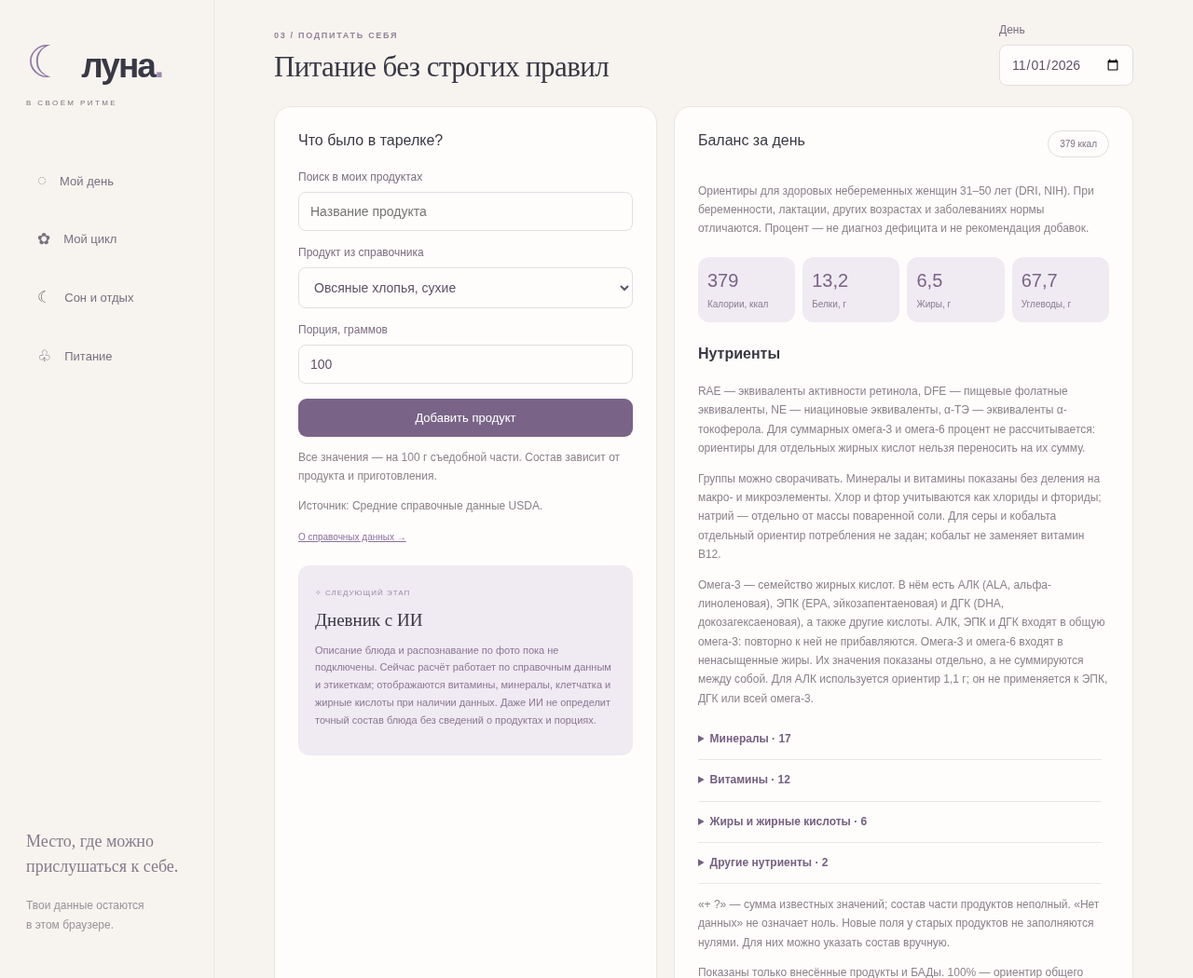
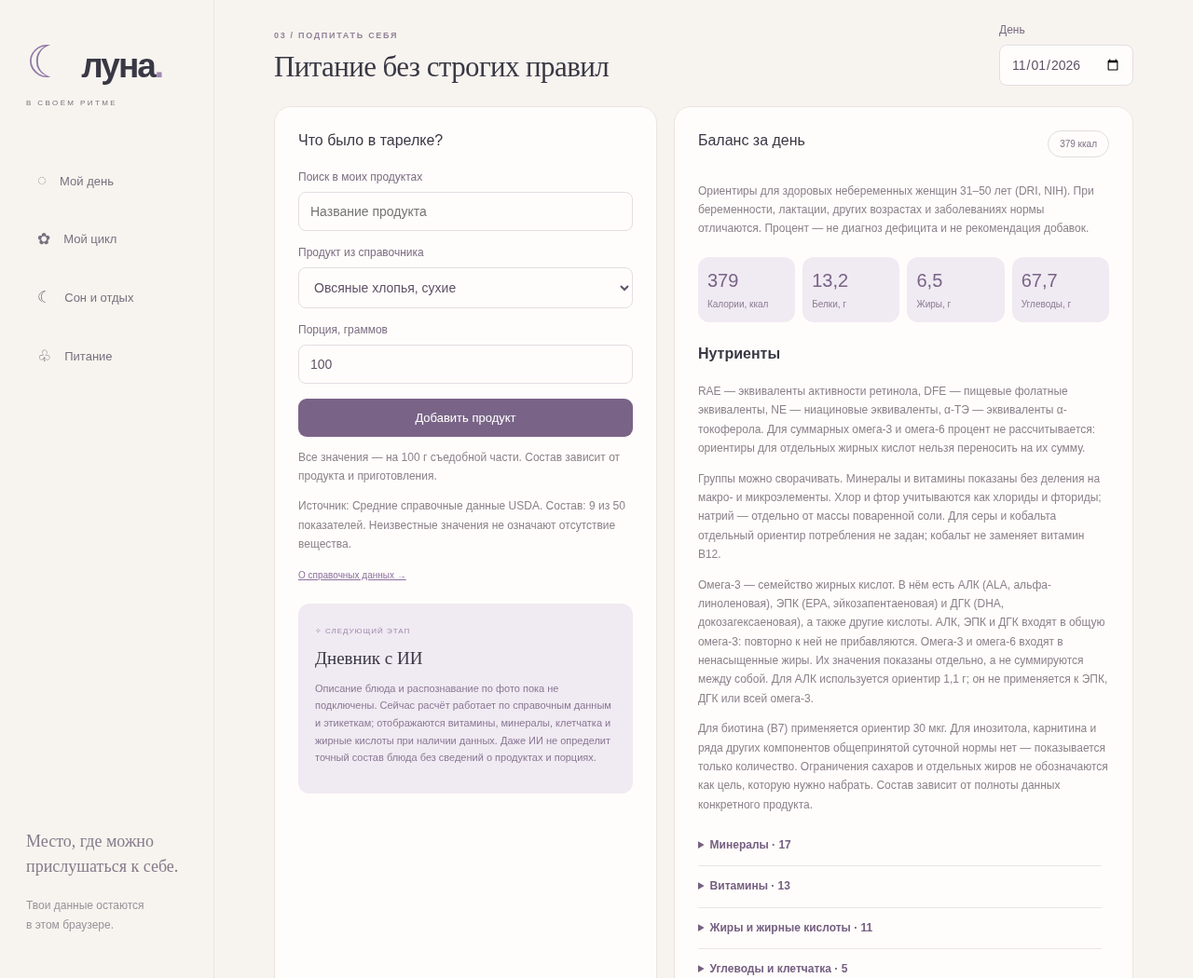
Add inositol and expand catalog-supported nutritional components

Changed region(s): [[0.5938, 0.7314, 0.9375, 1.0], [0.25, 0.5181, 0.5312, 0.7924], [0.8438, 0.9752, 0.9062, 1.0]]

diff --git a/app.js b/app.js
@@ -57,15 +57,34 @@ const nutrients=[
  ['b1','Витамин B1','мг',1.1],['b2','Витамин B2','мг',1.1],['b3','Витамин B3 (ниацин)','мг NE',14],['b5','Витамин B5','мг',5],['b6','Витамин B6','мг',1.3],
  ['iodine','Йод','мкг',150],['phosphorus','Фосфор','мг',700],['copper','Медь','мкг',900],['manganese','Марганец','мг',1.8],['selenium','Селен','мкг',55],['choline','Холин','мг',425],['omega3','Омега-3 (всего)','г',null],['omega6','Омега-6 (всего)','г',null],
  ['sodium','Натрий','мг',1500],['sulfur','Сера','мг',null],['chloride','Хлориды (хлор)','мг',2300],['fluoride','Фториды (фтор)','мг',3],['molybdenum','Молибден','мкг',45],['chromium','Хром','мкг',25],['cobalt','Кобальт','мкг',null],
- ['unsaturated','Ненасыщенные жиры (всего)','г',null],['ala','АЛК (ALA) · омега-3','г',1.1],['epa','ЭПК (EPA) · омега-3','мг',null],['dha','ДГК (DHA) · омега-3','мг',null]
+ ['unsaturated','Ненасыщенные жиры (всего)','г',null],['ala','АЛК (ALA) · омега-3','г',1.1],['epa','ЭПК (EPA) · омега-3','мг',null],['dha','ДГК (DHA) · омега-3','мг',null],
+ ['inositol','Инозитол','мг',null],['biotin','Витамин B7 (биотин)','мкг',30],['betaCarotene','Бета-каротин','мкг',null],['carnitine','Карнитин','мг',null],
+ ['sugars','Сахара (всего)','г',null],['addedSugars','Добавленные сахара','г',null],['starch','Крахмал','г',null],['polyols','Полиолы','г',null],
+ ['saturated','Насыщенные жиры','г',null],['monounsaturated','Мононенасыщенные жиры','г',null],['polyunsaturated','Полиненасыщенные жиры','г',null],['trans','Трансжиры','г',null],['cholesterol','Пищевой холестерин','мг',null]
 ];
 // One shared taxonomy for the daily balance, product editor and supplement picker.
 const nutrientGroups=[
  {id:'minerals',name:'Минералы',keys:['potassium','calcium','magnesium','sodium','phosphorus','sulfur','chloride','iron','zinc','iodine','copper','manganese','selenium','molybdenum','chromium','cobalt','fluoride']},
- {id:'vitamins',name:'Витамины',keys:['a','d','e','k','c','b1','b2','b3','b5','b6','folate','b12']},
- {id:'fatty-acids',name:'Жиры и жирные кислоты',keys:['unsaturated','omega3','ala','epa','dha','omega6']},
- {id:'other-nutrients',name:'Другие нутриенты',keys:['fiber','choline']}
+ {id:'vitamins',name:'Витамины',keys:['a','d','e','k','c','b1','b2','b3','b5','b6','folate','b12','biotin']},
+ {id:'fatty-acids',name:'Жиры и жирные кислоты',keys:['saturated','unsaturated','monounsaturated','polyunsaturated','omega3','ala','epa','dha','omega6','trans','cholesterol']},
+ {id:'carbohydrate-components',name:'Углеводы и клетчатка',keys:['sugars','addedSugars','starch','polyols','fiber']},
+ {id:'other-nutrients',name:'Другие нутриенты',keys:['choline','inositol','carnitine','betaCarotene']}
 ];
+const nutrientNotes={
+ inositol:'Общепринятая суточная норма не установлена. Инозитол не считается признанным витамином B8.',
+ biotin:'Ориентир AI для взрослых — 30 мкг в сутки. Это не назначение дозы добавки.',
+ betaCarotene:'Предшественник витамина A. Не прибавляется автоматически к уже указанному витамину A в RAE.',
+ sugars:'Общие сахара уже включают добавленные; оба показателя — часть углеводов, не прибавляются к ним повторно.',
+ addedSugars:'Количество учитывается отдельно. Рекомендуемые ограничения зависят от калорийности и не являются целью, которую нужно набрать.',
+ starch:'Компонент углеводов, не прибавляется повторно к углеводам КБЖУ.',
+ polyols:'Сахарные спирты. В разных системах маркировки могут входить в углеводы; КБЖУ не пересчитываются автоматически.',
+ saturated:'Ограничения выражают относительно калорийности. Фиксированная цель в граммах не назначена.',
+ monounsaturated:'Входят в ненасыщенные жиры. Не прибавляются повторно к общей массе жиров.',
+ polyunsaturated:'Включают омега-3 и омега-6. Вложенные показатели не складываются повторно.',
+ trans:'Для трансжиров не задаётся цель потребления, которую нужно набрать.',
+ cholesterol:'Это холестерин в пище, а не показатель холестерина в крови. Цель потребления не назначена.',
+ carnitine:'Общепринятая суточная норма для здоровых взрослых не установлена.'
+};
 const nutrientByKey=new Map(nutrients.map(n=>[n[0],n]));
 const products=[
  {id:'oats',name:'Овсяные хлопья, сухие',kcal:379,iron:4.25,calcium:52,magnesium:138,potassium:362,zinc:3.64,c:0,b12:0,folate:32},
@@ -98,7 +117,7 @@ function renderFood(){renderProductSelect();const date=$('#food-date').value;con
  const macros=$('#macros');macros.replaceChildren();for(const key of macroKeys){const card=document.createElement('div');card.className='macro';card.append(textEl('strong',amountText(key,totals,unknown)),textEl('span',macroLabels[key]));macros.append(card);}
  renderNutrients(entries,totals,unknown,date);
  const history=$('#food-history');history.replaceChildren();if(!entries.length)history.append(textEl('p','Добавь первый продукт — здесь появятся записи за выбранный день.','empty'));for(const m of entries){const p=mealProduct(m);const r=textEl('div',`${p?p.name:'Продукт'} · ${m.grams} г`,'record');r.append(removeButton(`Удалить продукт ${m.id}`,()=>{state.meals=state.meals.filter(v=>v.id!==m.id);save();}));history.append(r);}renderCustomProducts();renderWater();renderSupplements();}
-function renderSelectedSource(){const p=allProducts().find(p=>p.id===$('#food-product').value);$('#selected-product-source').textContent=p?`Источник: ${p.source}.`:'';}
+function renderSelectedSource(){const p=allProducts().find(p=>p.id===$('#food-product').value);$('#selected-product-source').textContent=p?`Источник: ${p.source}. Состав: ${nutrients.filter(([key])=>isKnown(p[key])).length} из ${nutrients.length} показателей. Неизвестные значения не означают отсутствие вещества.`:'';}
 $('#food-product').onchange=renderSelectedSource;
 $('#local-product-search').oninput=renderProductSelect;
 $('#food-date').onchange=renderFood;$('#food-form').onsubmit=e=>{e.preventDefault();const grams=Number($('#food-grams').value),date=$('#food-date').value,p=allProducts().find(p=>p.id===$('#food-product').value);if(!p||!date||!Number.isFinite(grams)||grams<1||grams>3000)return;state.meals.push({id:crypto.randomUUID(),date,product:p.id,grams,snapshot:structuredClone(p)});save();};
@@ -108,7 +127,7 @@ $('#product-cancel').onclick=resetProductForm;
 function renderCustomProducts(){const list=$('#custom-products');list.replaceChildren();for(const p of state.products){const row=textEl('div',p.name,'record');const edit=textEl('button','Изменить','edit-product');edit.type='button';edit.setAttribute('aria-label',`Изменить ${p.name}`);edit.onclick=()=>{$('#product-id').value=p.id;$('#product-name').value=p.name;for(const key of [...macroKeys,...nutrients.map(n=>n[0])])$('#product-'+key).value=isKnown(p[key])?p[key]:'';$('#product-save').textContent='Сохранить изменения';$('#product-cancel').hidden=false;$('#product-name').focus();};row.append(edit,removeButton(`Удалить из базы ${p.name}`,()=>{state.products=state.products.filter(v=>v.id!==p.id);if($('#product-id').value===p.id)resetProductForm();save();}));list.append(row);}}
 $('#product-form').onsubmit=e=>{e.preventDefault();const name=$('#product-name').value.trim();if(!name)return;const id=$('#product-id').value||'custom-'+crypto.randomUUID();const old=state.products.find(p=>p.id===id);const product={id,name,source:old?.source||'Собственные данные на 100 г'};for(const key of [...macroKeys,...nutrients.map(n=>n[0])]){const value=$('#product-'+key).value;product[key]=value===''?null:Number(value);if(product[key]!==null&&!isKnown(product[key]))return;}if(macroKeys.some(k=>!isKnown(product[k])))return;if(product.protein+product.fat+product.carbs>101){$('#product-message').textContent='Проверь состав: сумма белков, жиров и углеводов превышает 100 г на 100 г продукта.';return;}state.products=state.products.filter(p=>p.id!==id);state.products.push(product);resetProductForm();$('#local-product-search').value='';save();$('#food-product').value=id;renderSelectedSource();$('#product-message').textContent=`«${name}» сохранён. Теперь выбери порцию и добавь в дневник.`;};
 const offNumber=(nutriments,key,factor=1)=>{const value=nutriments[key];return typeof value==='number'&&Number.isFinite(value)&&value>=0?value*factor:null;};
-function fromOFF(p){const n=p.nutriments||{};return {id:'off-'+p.code,name:[p.product_name||p.product_name_en||'Продукт '+p.code,p.brands].filter(Boolean).join(' · '),source:'Open Food Facts · '+p.code,kcal:offNumber(n,'energy-kcal_100g')??(offNumber(n,'energy_100g')===null?null:offNumber(n,'energy_100g')/4.184),protein:offNumber(n,'proteins_100g'),fat:offNumber(n,'fat_100g'),carbs:offNumber(n,'carbohydrates_100g'),iron:offNumber(n,'iron_100g',1000),calcium:offNumber(n,'calcium_100g',1000),magnesium:offNumber(n,'magnesium_100g',1000),potassium:offNumber(n,'potassium_100g',1000),zinc:offNumber(n,'zinc_100g',1000),c:offNumber(n,'vitamin-c_100g',1000),b12:offNumber(n,'vitamin-b12_100g',1e6),folate:null, fiber:offNumber(n,'fiber_100g'),a:null,e:null,b3:null,d:offNumber(n,'vitamin-d_100g',1e6),k:offNumber(n,'vitamin-k_100g',1e6),b1:offNumber(n,'vitamin-b1_100g',1000),b2:offNumber(n,'vitamin-b2_100g',1000),b5:offNumber(n,'pantothenic-acid_100g',1000),b6:offNumber(n,'vitamin-b6_100g',1000),iodine:offNumber(n,'iodine_100g',1e6),phosphorus:offNumber(n,'phosphorus_100g',1000),copper:offNumber(n,'copper_100g',1e6),manganese:offNumber(n,'manganese_100g',1000),selenium:offNumber(n,'selenium_100g',1e6),choline:offNumber(n,'choline_100g',1000),omega3:offNumber(n,'omega-3-fat_100g'),omega6:offNumber(n,'omega-6-fat_100g'),sodium:offNumber(n,'sodium_100g',1000),sulfur:offNumber(n,'sulfur_100g',1000),chloride:offNumber(n,'chloride_100g',1000),fluoride:offNumber(n,'fluoride_100g',1000),molybdenum:offNumber(n,'molybdenum_100g',1e6),chromium:offNumber(n,'chromium_100g',1e6),cobalt:offNumber(n,'cobalt_100g',1e6),unsaturated:offNumber(n,'unsaturated-fat_100g')??(offNumber(n,'monounsaturated-fat_100g')!==null&&offNumber(n,'polyunsaturated-fat_100g')!==null?offNumber(n,'monounsaturated-fat_100g')+offNumber(n,'polyunsaturated-fat_100g'):null),ala:offNumber(n,'alpha-linolenic-acid_100g'),epa:offNumber(n,'eicosapentaenoic-acid_100g',1000),dha:offNumber(n,'docosahexaenoic-acid_100g',1000)};}
+function fromOFF(p){const n=p.nutriments||{};return {id:'off-'+p.code,name:[p.product_name||p.product_name_en||'Продукт '+p.code,p.brands].filter(Boolean).join(' · '),source:'Open Food Facts · '+p.code,kcal:offNumber(n,'energy-kcal_100g')??(offNumber(n,'energy_100g')===null?null:offNumber(n,'energy_100g')/4.184),protein:offNumber(n,'proteins_100g'),fat:offNumber(n,'fat_100g'),carbs:offNumber(n,'carbohydrates_100g'),iron:offNumber(n,'iron_100g',1000),calcium:offNumber(n,'calcium_100g',1000),magnesium:offNumber(n,'magnesium_100g',1000),potassium:offNumber(n,'potassium_100g',1000),zinc:offNumber(n,'zinc_100g',1000),c:offNumber(n,'vitamin-c_100g',1000),b12:offNumber(n,'vitamin-b12_100g',1e6),folate:null, fiber:offNumber(n,'fiber_100g'),a:null,e:null,b3:null,d:offNumber(n,'vitamin-d_100g',1e6),k:offNumber(n,'vitamin-k_100g',1e6),b1:offNumber(n,'vitamin-b1_100g',1000),b2:offNumber(n,'vitamin-b2_100g',1000),b5:offNumber(n,'pantothenic-acid_100g',1000),b6:offNumber(n,'vitamin-b6_100g',1000),iodine:offNumber(n,'iodine_100g',1e6),phosphorus:offNumber(n,'phosphorus_100g',1000),copper:offNumber(n,'copper_100g',1e6),manganese:offNumber(n,'manganese_100g',1000),selenium:offNumber(n,'selenium_100g',1e6),choline:offNumber(n,'choline_100g',1000),omega3:offNumber(n,'omega-3-fat_100g'),omega6:offNumber(n,'omega-6-fat_100g'),sodium:offNumber(n,'sodium_100g',1000),sulfur:offNumber(n,'sulfur_100g',1000),chloride:offNumber(n,'chloride_100g',1000),fluoride:offNumber(n,'fluoride_100g',1000),molybdenum:offNumber(n,'molybdenum_100g',1e6),chromium:offNumber(n,'chromium_100g',1e6),cobalt:offNumber(n,'cobalt_100g',1e6),unsaturated:offNumber(n,'unsaturated-fat_100g')??(offNumber(n,'monounsaturated-fat_100g')!==null&&offNumber(n,'polyunsaturated-fat_100g')!==null?offNumber(n,'monounsaturated-fat_100g')+offNumber(n,'polyunsaturated-fat_100g'):null),ala:offNumber(n,'alpha-linolenic-acid_100g'),epa:offNumber(n,'eicosapentaenoic-acid_100g',1000),dha:offNumber(n,'docosahexaenoic-acid_100g',1000),inositol:offNumber(n,'inositol_100g',1000),biotin:offNumber(n,'biotin_100g',1e6),betaCarotene:offNumber(n,'beta-carotene_100g',1e6),carnitine:offNumber(n,'carnitine_100g',1000),sugars:offNumber(n,'sugars_100g'),addedSugars:offNumber(n,'added-sugars_100g'),starch:offNumber(n,'starch_100g'),polyols:offNumber(n,'polyols_100g'),saturated:offNumber(n,'saturated-fat_100g'),monounsaturated:offNumber(n,'monounsaturated-fat_100g'),polyunsaturated:offNumber(n,'polyunsaturated-fat_100g'),trans:offNumber(n,'trans-fat_100g'),cholesterol:offNumber(n,'cholesterol_100g',1000)};}
 // OFF folates may not specify DFE, so do not equate them to DFE-based targets.
 let lastCatalogRequest=0;
 $('#catalog-form').onsubmit=async e=>{e.preventDefault();const query=$('#catalog-query').value.trim();if(query.length<2)return;if(!navigator.onLine){$('#catalog-status').textContent='Сейчас нет интернета. Свои и уже сохранённые продукты доступны выше.';return;}if(Date.now()-lastCatalogRequest<6500){$('#catalog-status').textContent='Подожди несколько секунд перед новым поиском.';return;}lastCatalogRequest=Date.now();const status=$('#catalog-status'),results=$('#catalog-results');results.replaceChildren();status.textContent='Ищем в Open Food Facts…';$('#catalog-submit').disabled=true;const controller=new AbortController();const timeout=setTimeout(()=>controller.abort(),15000);try{const fields='code,product_name,product_name_en,brands,nutriments';const url=/^\d{8,14}$/.test(query)?`https://world.openfoodfacts.org/api/v2/product/${encodeURIComponent(query)}.json?fields=${fields}`:`https://world.openfoodfacts.org/cgi/search.pl?search_terms=${encodeURIComponent(query)}&search_simple=1&action=process&json=1&page_size=10&fields=${fields}`;const response=await fetch(url,{signal:controller.signal,credentials:'omit',referrerPolicy:'no-referrer'});if(!response.ok)throw new Error('HTTP '+response.status);const data=await response.json();const found=(data.products||(data.status===1&&data.product?[data.product]:[])).filter(p=>p&&p.code);status.textContent=found.length?`Найдено: ${found.length}. Проверь данные и сохрани нужный продукт.`:'Ничего не найдено. Попробуй другое название или внеси продукт с упаковки.';for(const item of found){const product=fromOFF(item);const card=document.createElement('div');card.className='catalog-item';card.append(textEl('h4',product.name),textEl('small',`Штрихкод: ${item.code}`));card.append(textEl('p',macroKeys.map(k=>`${macroLabels[k]}: ${isKnown(product[k])?numeric(product[k]):'нет данных'}`).join(' · ')));const button=textEl('button','Сохранить в мою базу');button.type='button';button.onclick=()=>{if(state.products.some(p=>p.id===product.id)){status.textContent='Этот продукт уже есть в твоей базе.';return;}state.products.push(product);$('#local-product-search').value='';save();$('#food-product').value=product.id;renderSelectedSource();button.disabled=true;button.textContent='Сохранён';status.textContent='Продукт сохранён. Теперь можно добавить порцию в дневник.';};card.append(button);results.append(card);}}catch(error){status.textContent=error.name==='AbortError'?'Поиск занял слишком много времени. Попробуй позже или внеси продукт вручную.':'Каталог сейчас недоступен. Проверь интернет или добавь продукт вручную.';}finally{clearTimeout(timeout);$('#catalog-submit').disabled=false;}};
@@ -128,7 +147,7 @@ function renderNutrients(entries,foodTotals,unknown,date){const supplements=dail
  const row=document.createElement('div');row.className='nutrient';row.dataset.nutrient=key;if(['ala','epa','dha'].includes(key))row.classList.add('nutrient-subtype');const label=document.createElement('div');label.className='nutrient-label';label.append(textEl('span',name),textEl('small',value));row.append(label);
  if(norm!==null){const track=document.createElement('div');track.className='track';track.setAttribute('role','meter');track.setAttribute('aria-label',`${name}: ${value}`);track.setAttribute('aria-valuemin','0');track.setAttribute('aria-valuemax','100');track.setAttribute('aria-valuenow',String(Math.min(percent,100)));track.setAttribute('aria-valuetext',value);const fill=document.createElement('div');fill.className='fill';fill.style.width=`${Math.min(percent,100)}%`;track.append(fill);row.append(track);}
  const foodValue=entries.length&&foodMissing===entries.length?'нет данных':`${numeric(foodTotals[key])} ${unit}${foodMissing?' + ?':''}`;
- row.append(textEl('div',`Еда: ${foodValue} · БАДы: ${numeric(supplements.totals[key])} ${unit}${notConverted?` · без пересчёта: ${notConverted}`:''}`,'nutrient-source'));const group=nutrientGroups.find(g=>g.keys.includes(key));groupBodies.get(group.id).append(row);
+ row.append(textEl('div',`Еда: ${foodValue} · БАДы: ${numeric(supplements.totals[key])} ${unit}${notConverted?` · без пересчёта: ${notConverted}`:''}`,'nutrient-source'));if(nutrientNotes[key])row.append(textEl('div',nutrientNotes[key],'nutrient-note'));const group=nutrientGroups.find(g=>g.keys.includes(key));groupBodies.get(group.id).append(row);
  }
  for(const group of nutrientGroups){const body=groupBodies.get(group.id);for(const key of group.keys)body.append(body.querySelector(`[data-nutrient="${key}"]`));}container.scrollTop=scroll;
  const hasMissingFood=Object.values(unknown).some(n=>n>0);const unconvertedCount=Object.values(supplements.unconverted).reduce((a,b)=>a+b,0);

diff --git a/index.html b/index.html
@@ -6,7 +6,7 @@
 <section id="cycle" class="section"><div class="section-title"><div><span class="eyebrow">01 / ПРИСЛУШАТЬСЯ К ТЕЛУ</span><h2>Мой цикл</h2></div><span class="pill">Каждый цикл индивидуален</span></div><div class="cycle-grid"><article class="card"><div class="calendar-title"><button id="prev-month" aria-label="Предыдущий месяц" class="icon-button">←</button><h3 id="month-title"></h3><button id="next-month" aria-label="Следующий месяц" class="icon-button">→</button></div><div class="weekdays" aria-hidden="true"><span>ПН</span><span>ВТ</span><span>СР</span><span>ЧТ</span><span>ПТ</span><span>СБ</span><span>ВС</span></div><div id="calendar" class="calendar" aria-label="Календарь цикла"></div><div class="legend"><span><i class="menstrual"></i>Менструация</span><span><i class="follicular"></i>Фолликулярная</span><span><i class="ovulation"></i>Овуляция ≈</span><span><i class="luteal"></i>Лютеиновая</span></div><p class="fine">Цвета — расчётная схема, а не подтверждение фаз. Менструация биологически входит в фолликулярную фазу.</p></article><article class="card phase-card"><span class="eyebrow" id="selected-date"></span><h3 id="phase-title">У каждого тела свой ритм</h3><p id="phase-description">Добавь дату начала менструации. Здесь появятся примерный день цикла и мягкие подсказки.</p><div id="phase-tips"></div><div class="callout">Прогноз по датам не подтверждает овуляцию и не подходит для контрацепции. При нерегулярном цикле, беременности и гормональной контрацепции он может быть неприменим.</div></article></div>
 <article class="card settings"><form id="cycle-form"><label>Начало менструации<input id="period-start" type="date" required></label><label>Обычная длина цикла, дней<input id="cycle-length" type="number" min="21" max="45" value="28" required></label><label>Менструация, дней<input id="period-length" type="number" min="1" max="10" value="5" required></label><button type="submit">Отметить начало</button></form><p class="fine">Настройки прогноза: цикл 21–45 дней, менструация до 10 дней. Это диапазон модели, а не оценка здоровья. При сильной боли или необычно обильном кровотечении обратись за медицинской помощью.</p><div id="period-history" class="history"></div></article></section>
 <section id="sleep" class="section"><div class="section-title"><div><span class="eyebrow">02 / ВОССТАНОВИТЬ СИЛЫ</span><h2>Сон и отдых</h2></div><label class="inline-label">Период<select id="sleep-range"><option value="7">7 дней</option><option value="30">30 дней</option><option value="365">365 дней</option></select></label></div><div class="sleep-grid"><article class="card"><h3>Как ты отдохнула?</h3><form id="sleep-form" class="stack"><label>Тип сна<select id="sleep-type"><option value="night">Ночной сон</option><option value="nap">Дневной сон</option></select></label><div class="form-pair"><label>Уснула<input id="sleep-start" type="datetime-local" required></label><label>Проснулась<input id="sleep-end" type="datetime-local" required></label></div><button type="submit">Сохранить сон</button></form><p id="sleep-error" class="error" role="alert"></p><p class="fine">Указывай обе даты, если сон пересекает полночь. Пересекающиеся записи не суммируются.</p></article><article class="card"><span class="eyebrow">СРЕДНЯЯ ПРОДОЛЖИТЕЛЬНОСТЬ</span><div id="sleep-average" class="big-number">—</div><p id="sleep-average-note" class="muted"></p><div id="sleep-chart" class="sleep-chart" aria-label="Длительность сна по дням"></div><p class="fine">Суммируем ночной и дневной сон по дате пробуждения. Среднее — по дням с записями; дни без данных не считаются нулевыми. На графике последние 14 дней выбранного периода.</p></article></div><div id="sleep-history" class="history card"></div></section>
-<section id="food" class="section"><div class="section-title"><div><span class="eyebrow">03 / ПОДПИТАТЬ СЕБЯ</span><h2>Питание без строгих правил</h2></div><label class="inline-label">День<input type="date" id="food-date" required></label></div><div class="food-grid"><article class="card"><h3>Что было в тарелке?</h3><form id="food-form" class="stack"><label>Поиск в моих продуктах<input id="local-product-search" type="search" placeholder="Название продукта"></label><label>Продукт из справочника<select id="food-product"></select></label><label>Порция, граммов<input id="food-grams" type="number" min="1" max="3000" step="1" value="100" required></label><button type="submit">Добавить продукт</button></form><p class="fine">Все значения — на 100 г съедобной части. Состав зависит от продукта и приготовления.</p><p id="selected-product-source" class="fine"></p><a class="text-link" href="https://fdc.nal.usda.gov/" target="_blank" rel="noopener">О справочных данных →</a><div class="ai-note"><span>✧ СЛЕДУЮЩИЙ ЭТАП</span><h4>Дневник с ИИ</h4><p>Описание блюда и распознавание по фото пока не подключены. Сейчас расчёт работает по справочным данным и этикеткам; отображаются витамины, минералы, клетчатка и жирные кислоты при наличии данных. Даже ИИ не определит точный состав блюда без сведений о продуктах и порциях.</p></div></article><article class="card"><div class="nutrient-heading"><h3>Баланс за день</h3><span id="food-calories" class="pill">0 ккал</span></div><p class="fine">Ориентиры для здоровых небеременных женщин 31–50 лет (DRI, NIH). При беременности, лактации, других возрастах и заболеваниях нормы отличаются. Процент — не диагноз дефицита и не рекомендация добавок.</p><div id="macros" class="macros" aria-label="КБЖУ за день"></div><h4>Нутриенты</h4><p class="fine">RAE — эквиваленты активности ретинола, DFE — пищевые фолатные эквиваленты, NE — ниациновые эквиваленты, α-ТЭ — эквиваленты α-токоферола. Для суммарных омега-3 и омега-6 процент не рассчитывается: ориентиры для отдельных жирных кислот нельзя переносить на их сумму.</p><p class="fine">Группы можно сворачивать. Минералы и витамины показаны без деления на макро- и микроэлементы. Хлор и фтор учитываются как хлориды и фториды; натрий — отдельно от массы поваренной соли. Для серы и кобальта отдельный ориентир потребления не задан; кобальт не заменяет витамин B12.</p><p class="fine">Омега-3 — семейство жирных кислот. В нём есть АЛК (ALA, альфа-линоленовая), ЭПК (EPA, эйкозапентаеновая) и ДГК (DHA, докозагексаеновая), а также другие кислоты. АЛК, ЭПК и ДГК входят в общую омега-3: повторно к ней не прибавляются. Омега-3 и омега-6 входят в ненасыщенные жиры. Их значения показаны отдельно, а не суммируются между собой. Для АЛК используется ориентир 1,1 г; он не применяется к ЭПК, ДГК или всей омега-3.</p><div id="nutrients" tabindex="0" role="region" aria-label="Нутриенты по группам"></div><p id="nutrient-coverage" class="fine"></p><p class="fine">Показаны только внесённые продукты и БАДы. 100% — ориентир общего потребления, не назначение дозировки и не верхний допустимый уровень. БАДы в КБЖУ не включены: для этого нужен полный состав добавки.</p></article></div><div id="food-history" class="history card"></div>
+<section id="food" class="section"><div class="section-title"><div><span class="eyebrow">03 / ПОДПИТАТЬ СЕБЯ</span><h2>Питание без строгих правил</h2></div><label class="inline-label">День<input type="date" id="food-date" required></label></div><div class="food-grid"><article class="card"><h3>Что было в тарелке?</h3><form id="food-form" class="stack"><label>Поиск в моих продуктах<input id="local-product-search" type="search" placeholder="Название продукта"></label><label>Продукт из справочника<select id="food-product"></select></label><label>Порция, граммов<input id="food-grams" type="number" min="1" max="3000" step="1" value="100" required></label><button type="submit">Добавить продукт</button></form><p class="fine">Все значения — на 100 г съедобной части. Состав зависит от продукта и приготовления.</p><p id="selected-product-source" class="fine"></p><a class="text-link" href="https://fdc.nal.usda.gov/" target="_blank" rel="noopener">О справочных данных →</a><div class="ai-note"><span>✧ СЛЕДУЮЩИЙ ЭТАП</span><h4>Дневник с ИИ</h4><p>Описание блюда и распознавание по фото пока не подключены. Сейчас расчёт работает по справочным данным и этикеткам; отображаются витамины, минералы, клетчатка и жирные кислоты при наличии данных. Даже ИИ не определит точный состав блюда без сведений о продуктах и порциях.</p></div></article><article class="card"><div class="nutrient-heading"><h3>Баланс за день</h3><span id="food-calories" class="pill">0 ккал</span></div><p class="fine">Ориентиры для здоровых небеременных женщин 31–50 лет (DRI, NIH). При беременности, лактации, других возрастах и заболеваниях нормы отличаются. Процент — не диагноз дефицита и не рекомендация добавок.</p><div id="macros" class="macros" aria-label="КБЖУ за день"></div><h4>Нутриенты</h4><p class="fine">RAE — эквиваленты активности ретинола, DFE — пищевые фолатные эквиваленты, NE — ниациновые эквиваленты, α-ТЭ — эквиваленты α-токоферола. Для суммарных омега-3 и омега-6 процент не рассчитывается: ориентиры для отдельных жирных кислот нельзя переносить на их сумму.</p><p class="fine">Группы можно сворачивать. Минералы и витамины показаны без деления на макро- и микроэлементы. Хлор и фтор учитываются как хлориды и фториды; натрий — отдельно от массы поваренной соли. Для серы и кобальта отдельный ориентир потребления не задан; кобальт не заменяет витамин B12.</p><p class="fine">Омега-3 — семейство жирных кислот. В нём есть АЛК (ALA, альфа-линоленовая), ЭПК (EPA, эйкозапентаеновая) и ДГК (DHA, докозагексаеновая), а также другие кислоты. АЛК, ЭПК и ДГК входят в общую омега-3: повторно к ней не прибавляются. Омега-3 и омега-6 входят в ненасыщенные жиры. Их значения показаны отдельно, а не суммируются между собой. Для АЛК используется ориентир 1,1 г; он не применяется к ЭПК, ДГК или всей омега-3.</p><p class="fine">Для биотина (B7) применяется ориентир 30 мкг. Для инозитола, карнитина и ряда других компонентов общепринятой суточной нормы нет — показывается только количество. Ограничения сахаров и отдельных жиров не обозначаются как цель, которую нужно набрать. Состав зависит от полноты данных конкретного продукта.</p><div id="nutrients" tabindex="0" role="region" aria-label="Нутриенты по группам"></div><p id="nutrient-coverage" class="fine"></p><p class="fine">Показаны только внесённые продукты и БАДы. 100% — ориентир общего потребления, не назначение дозировки и не верхний допустимый уровень. БАДы в КБЖУ не включены: для этого нужен полный состав добавки.</p></article></div><div id="food-history" class="history card"></div>
 <div class="food-grid product-tools"><article class="card"><h3>Моя база продуктов</h3><p class="fine">Добавь продукт с этикетки или по средним справочным данным. Все значения — на 100 г. База сохраняется в этом браузере. Изменения продукта не меняют уже внесённые порции.</p>
 <form id="product-form" class="stack"><input type="hidden" id="product-id"><label>Название<input id="product-name" maxlength="120" required placeholder="Например: творог 5%"></label><div class="form-pair"><label>Калории, ккал<input type="number" id="product-kcal" min="0" max="1000" step="any" required></label><label>Белки, г<input type="number" id="product-protein" min="0" max="100" step="any" required></label><label>Жиры, г<input type="number" id="product-fat" min="0" max="100" step="any" required></label><label>Углеводы, г<input type="number" id="product-carbs" min="0" max="100" step="any" required></label></div><details><summary>Нутриенты — необязательно</summary><p class="fine">Если нет данных, оставь поле пустым. Ноль означает, что вещество отсутствует по данным источника.</p><div id="product-micros" class="form-pair"></div></details><button type="submit" id="product-save">Сохранить продукт</button><button type="button" id="product-cancel" class="secondary" hidden>Отменить редактирование</button></form><p id="product-message" class="fine" role="status"></p><div id="custom-products" class="history"></div></article>
 <article class="card"><h3>Найти продукт в большой базе</h3><p class="fine">Поиск в открытом каталоге Open Food Facts, в том числе по штрихкоду. Запрос передаётся этому сервису. Записи заполняют участники: сверяй состав с упаковкой. Интернет нужен только для поиска; сохранённые продукты доступны офлайн.</p><form id="catalog-form" class="stack"><label>Название или штрихкод<input type="search" id="catalog-query" minlength="2" maxlength="120" required placeholder="Например: йогурт или 13 цифр"></label><button type="submit" id="catalog-submit">Найти в Open Food Facts</button></form><p id="catalog-status" role="status" class="fine"></p><div id="catalog-results" class="catalog-results"></div><p class="fine">Источник: <a class="text-link" href="https://world.openfoodfacts.org/" target="_blank" rel="noopener">Open Food Facts</a> · база <a class="text-link" href="https://opendatacommons.org/licenses/odbl/1-0/" target="_blank" rel="noopener">ODbL</a>. Каталог не содержит все существующие продукты и не гарантирует полноту состава. Импортированные продукты остаются личными; мы не отправляем их обратно в каталог.</p></article></div>

diff --git a/style.css b/style.css
@@ -11,3 +11,5 @@ button:disabled{opacity:.55;cursor:default}
 .nutrient-group{border-bottom:1px solid var(--border);padding:12px 0}.nutrient-group>summary{cursor:pointer;font-size:12px;color:#756082;font-weight:600;line-height:1.6}.nutrient-group>div{padding:2px 3px}.nutrient-group:focus-within{border-bottom-color:#b39bc3}#nutrients:focus-visible{outline:2px solid #866295;outline-offset:4px;border-radius:6px}#product-micros{display:block}.nutrient-fieldset{min-width:0;margin:15px 0;padding:15px 12px;border:1px solid #e6dfe9;border-radius:10px}.nutrient-fieldset legend{font-size:12px;padding:0 7px;color:#796487}.nutrient-fieldset .form-pair{margin-top:0!important}
 
 .nutrient-subtype{margin-left:12px;padding-left:12px;border-left:2px solid #e6deed}
+
+.nutrient-note{font-size:10px;color:#95869d;line-height:1.6;margin-top:6px}

diff --git a/sw.js b/sw.js
@@ -1,4 +1,4 @@
-const CACHE='luna-diary-v6';
+const CACHE='luna-diary-v7';
 const ASSETS=['./','./index.html','./style.css','./app.js','./manifest.webmanifest','./icon.svg','./icon-192.png','./icon-512.png'];
 self.addEventListener('install',event=>{event.waitUntil(caches.open(CACHE).then(cache=>cache.addAll(ASSETS)).then(()=>self.skipWaiting()));});
 self.addEventListener('activate',event=>{event.waitUntil(caches.keys().then(keys=>Promise.all(keys.filter(key=>(key.startsWith('little-steps-')||key.startsWith('luna-diary-'))&&key!==CACHE).map(key=>caches.delete(key)))).then(()=>self.clients.claim()));});

diff --git a/tests/supplements_smoke.py b/tests/supplements_smoke.py
@@ -12,15 +12,15 @@ with sync_playwright() as p:
  page=ctx.new_page();errors=[];page.on('pageerror',lambda e:errors.append(str(e)))
  page.goto(URL);page.wait_for_function('navigator.serviceWorker.controller !== null')
  keys=page.evaluate('nutrients.map(n=>n[0])')
- assert len(keys)==37 and len(set(keys))==37
- expected={'fiber','d','iodine','iron','a','calcium','b1','e','b2','b3','b5','b6','folate','b12','k','magnesium','phosphorus','potassium','zinc','copper','manganese','selenium','choline','omega3','omega6','c','sodium','sulfur','chloride','fluoride','molybdenum','chromium','cobalt','unsaturated','ala','epa','dha'}
+ assert len(keys)==50 and len(set(keys))==50
+ expected={'fiber','d','iodine','iron','a','calcium','b1','e','b2','b3','b5','b6','folate','b12','k','magnesium','phosphorus','potassium','zinc','copper','manganese','selenium','choline','omega3','omega6','c','sodium','sulfur','chloride','fluoride','molybdenum','chromium','cobalt','unsaturated','ala','epa','dha','inositol','biotin','betaCarotene','carnitine','sugars','addedSugars','starch','polyols','saturated','monounsaturated','polyunsaturated','trans','cholesterol'}
  assert set(keys)==expected
  groups=page.evaluate('nutrientGroups')
  grouped=[key for group in groups for key in group['keys']]
- assert len(grouped)==len(set(grouped))==37 and set(grouped)==expected
- assert page.locator('#nutrients details').count()==4
- assert page.locator('#product-micros fieldset').count()==4
- assert page.locator('#supplement-nutrient optgroup').count()==4
+ assert len(grouped)==len(set(grouped))==50 and set(grouped)==expected
+ assert page.locator('#nutrients details').count()==5
+ assert page.locator('#product-micros fieldset').count()==5
+ assert page.locator('#supplement-nutrient optgroup').count()==5
  assert page.locator('#nutrients [data-group="minerals"] [data-nutrient="fluoride"]').count()==1
  assert page.locator('#nutrients [data-group="minerals"] [data-nutrient="phosphorus"]').count()==1
  for key in ['sulfur','cobalt']:
@@ -28,7 +28,7 @@ with sync_playwright() as p:
  # Collapsing one group must survive logging an entry, without hiding unrelated groups.
  page.locator('#nutrients [data-group="minerals"] summary').click()
 
- assert page.locator('#product-micros input').count()==37
+ assert page.locator('#product-micros input').count()==50
  assert page.evaluate('state.water[0].ml')==250
  assert page.evaluate('state.periods[0]')=='2026-10-10'
  def row(key):return page.locator(f'#nutrients [data-nutrient="{key}"]')
@@ -54,7 +54,7 @@ with sync_playwright() as p:
  assert page.evaluate('state.supplements.length')==7
  add('c',0,'mg')
  assert page.evaluate('state.supplements.length')==7
- print('PASS: 37 unique nutrients, additive migration, g/mg/mcg conversions, D in IU, unsupported forms excluded, percentages above 100 and omega no target')
+ print('PASS: 50 unique nutrients, additive migration, g/mg/mcg conversions, D in IU, unsupported forms excluded, percentages above 100 and omega no target')
  # Custom product with a known micronutrient, optional extended data, and food/supplement split.
  for key,val in [('name','Тестовый продукт'),('kcal','50'),('protein','2'),('fat','1'),('carbs','5')]:page.locator('#product-'+key).fill(val)
  page.locator('#product-form details').evaluate('(e)=>e.open=true')
@@ -104,9 +104,33 @@ with sync_playwright() as p:
  assert off['unsaturated']==6 and off['epa']==180 and off['dha']==120 and off['ala']==.5
  assert off['omega3'] is None, 'Do not fabricate total omega-3 from a subset of acids'
  assert page.evaluate("fromOFF({code:'test',nutriments:{'monounsaturated-fat_100g':4}}).unsaturated") is None
- assert page.evaluate('nutrientGroups.map(g=>g.name)')==['Минералы','Витамины','Жиры и жирные кислоты','Другие нутриенты']
+ assert page.evaluate('nutrientGroups.map(g=>g.name)')==['Минералы','Витамины','Жиры и жирные кислоты','Углеводы и клетчатка','Другие нутриенты']
  assert not page.get_by_text('Микронутриенты — необязательно',exact=True).count()
  print('PASS: simplified taxonomy, independent omega-3/EPA/DHA/ALA accounting, EPA/DHA mg, and qualified unsaturated fat import')
+ # OFF legacy API mass fields are normalized to grams; UI converts to each nutrient's unit.
+ imported=page.evaluate("fromOFF({code:'expanded',nutriments:{'inositol_100g':.35,'biotin_100g':.00003,'beta-carotene_100g':.002,'carnitine_100g':.02,'cholesterol_100g':.055,'sugars_100g':10,'added-sugars_100g':3,'starch_100g':4,'polyols_100g':1,'saturated-fat_100g':2,'monounsaturated-fat_100g':3,'polyunsaturated-fat_100g':2,'trans-fat_100g':0}})")
+ for key,value in {'inositol':350,'biotin':30,'betaCarotene':2000,'carnitine':20,'cholesterol':55,'sugars':10,'addedSugars':3,'starch':4,'polyols':1,'saturated':2,'monounsaturated':3,'polyunsaturated':2,'trans':0,'unsaturated':5}.items():
+  assert abs(imported[key]-value)<1e-8,(key,imported[key])
+ absent=page.evaluate("fromOFF({code:'no-data',nutriments:{}})")
+ assert all(absent[k] is None for k in ['inositol','biotin','betaCarotene','carnitine','cholesterol','addedSugars'])
+ for key,val in [('name','Расширенный тестовый продукт'),('kcal','100'),('protein','1'),('fat','3'),('carbs','8')]:page.locator('#product-'+key).fill(val)
+ page.locator('#product-form details').evaluate('(e)=>e.open=true')
+ page.locator('#product-inositol').fill('25');page.locator('#product-biotin').fill('10');page.locator('#product-sugars').fill('2');page.locator('#product-addedSugars').fill('1')
+ page.locator('#product-save').click();page.locator('#food-grams').fill('100');page.locator('#food-form button').click()
+ macros_before=page.locator('#macros').inner_text()
+ add('inositol',.5,'g','Инозитол')
+ add('biotin',.03,'mg','Биотин')
+ assert '525 мг' in row('inositol').inner_text() and '%' not in row('inositol').inner_text()
+ assert row('inositol').get_by_role('meter').count()==0
+ assert '40 / 30 мкг · 133%' in row('biotin').inner_text()
+ assert page.locator('#macros').inner_text()==macros_before
+ assert '2 г' in row('sugars').inner_text() and '1 г' in row('addedSugars').inner_text()
+ for key in ['cholesterol','saturated','trans','betaCarotene','carnitine','sugars','addedSugars','polyols','starch']:
+  assert row(key).get_by_role('meter').count()==0
+ page.reload()
+ assert '525 мг' in row('inositol').inner_text() and '40 / 30 мкг · 133%' in row('biotin').inner_text()
+ assert page.locator('#macros').inner_text()==macros_before
+ print('PASS: expanded catalog mapping, unknown data, inositol without invented target, biotin AI, food + supplements, no duplicate macro accounting, offline persistence')
  for width in [390,768,1024]:
   page.set_viewport_size({'width':width,'height':844});assert page.evaluate('document.documentElement.scrollWidth <= innerWidth'),width
  page.locator('#supplements').screenshot(path='/tmp/luna-check/supplements.png')

diff --git a/README.md b/README.md
@@ -91,3 +91,28 @@ python3 tests/browser_smoke.py
 При наличии данных Open Food Facts импортируются alpha-linolenic-acid, eicosapentaenoic-acid, docosahexaenoic-acid и unsaturated-fat на 100 г; EPA/DHA переводятся из г в мг. Ненасыщенные жиры можно вычислить из суммы моно- и полиненасыщенных только при наличии обоих значений. Если данных нет, сохраняется неизвестное значение. Живой API по-прежнему не проверен из-за сетевых ограничений среды.
 
 Тест supplements_smoke.py обновлён для 37 уникальных позиций и четырёх групп. Проверяет раздельный учёт омега-3/АЛК/ЭПК/ДГК без повторного сложения, мг для ЭПК/ДГК, пересчёт импорта и отсутствие выдуманного общего количества по частичным данным. Предыдущие записи и ключи хранилища сохранены.
+
+## Текущий список: инозитол и расширенный состав продуктов
+
+Теперь 50 показателей, распределённых по пяти небольшим группам: минералы; витамины; жиры и жирные кислоты; углеводы и клетчатка; другие нутриенты. КБЖУ остаётся отдельным итогом и не дублируется при добавлении вложенных компонентов.
+
+Добавлены 13 полей:
+
+- инозитол, мг — без установленной общепринятой суточной нормы; не обозначается как признанный витамин B8;
+- биотин (B7), мкг — AI DRI 30 мкг для здоровых взрослых, включая ранее выбранную группу женщин 31–50 лет;
+- бета-каротин, мкг — без отдельного ориентира и без автоматического прибавления к уже указанному витамину A RAE;
+- карнитин, мг — без установленной общепринятой нормы;
+- общие и добавленные сахара, крахмал, полиолы — г, без назначения фиксированной цели потребления;
+- насыщенные, мононенасыщенные, полиненасыщенные и трансжиры — г; пищевой холестерин — мг. Ограничения для отдельных компонентов не изображаются как цель, которую надо набрать, и не смешиваются с RDA/AI.
+
+Все поля доступны в личной базе продуктов, дневном балансе и выборе вещества в БАДах. Поддерживаются единицы г/мг/мкг, сохранение, отдельный учёт еды и БАДов, JSON-экспорт. Сахара не прибавляются поверх углеводов, добавленные сахара — поверх общих, а виды жиров — поверх общего жира. Проценты доступны только при заданном RDA/AI; цели для компонентов без такого ориентира не выдумываются. У выбранного продукта отображается число известных показателей из 50.
+
+Проверенные источники структуры данных (прочитаны 1 ноября 2026):
+
+- Официальная таксономия Open Food Facts: https://github.com/openfoodfacts/openfoodfacts-server/blob/main/taxonomies/nutrients.txt — в ней присутствуют все 13 новых идентификаторов.
+- Официальная реализация нормализации единиц: https://github.com/openfoodfacts/openfoodfacts-server/blob/main/lib/ProductOpener/Nutrition.pm — массовые поля legacy API нормализуются к г. Поэтому biotin/beta-carotene переводятся в мкг, inositol/carnitine/cholesterol — в мг, граммовые поля остаются в г.
+- Нормы и справочная информация по биотину: https://ods.od.nih.gov/factsheets/Biotin-HealthProfessional/ (ссылка на источник DRI; страница в этой сессии не читалась).
+
+Наличие поля в таксономии не гарантирует наличие числового состава у каждого товара. Живой поиск Open Food Facts по-прежнему не проверен из этой среды; проверена структура и преобразование фиксированных ответов. Встроенным и старым продуктам не дописываются выдуманные значения. Старые снимки состава и записи дневника сохраняются, незаполненные показатели остаются неизвестными.
+
+Обновлённый tests/supplements_smoke.py проверяет 50 уникальных полей, полное покрытие пятью группами, ручной ввод инозитола/биотина/сахаров, нормализацию новых полей каталога, суммирование еды и БАДов, процент биотина, отсутствие процентов там, где нет ориентира, отсутствие повторного учёта в КБЖУ и сохранение после офлайн-перезагрузки.
